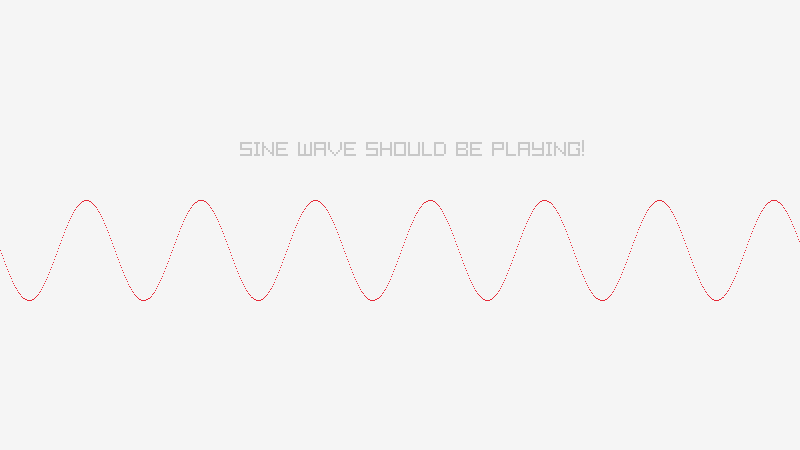
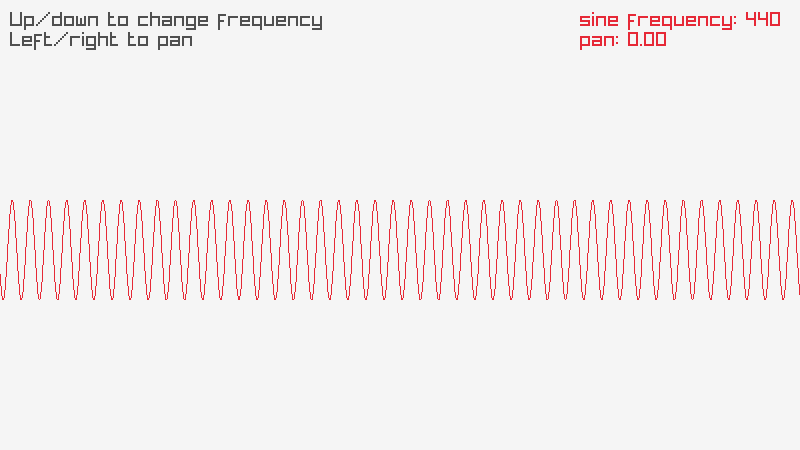
[examples] Update audio_raw_stream.c (#5637)
* Update audio_raw_stream.c

* Update audio_raw_stream.c to more closely follow raylib coding conventions

* Update audio_raw_stream.c to more closely follow raylib coding conventions

I accidentally put the file in the wrong folder.

* Delete examples/audio_raw_stream.c

* Remove spaces before asterisks in comments in audio_raw_stream.c

* Put SetTargetFPS(30) before while (!WindowShouldClose()) in audio_raw_stream.c

diff --git a/examples/audio/audio_raw_stream.c b/examples/audio/audio_raw_stream.c
@@ -16,41 +16,10 @@
 ********************************************************************************************/
 
 #include "raylib.h"
+#include <math.h>
 
-#include <stdlib.h>         // Required for: malloc(), free()
-#include <math.h>           // Required for: sinf()
-#include <string.h>         // Required for: memcpy()
-
-#define MAX_SAMPLES               512
-#define MAX_SAMPLES_PER_UPDATE   4096
-
-// Cycles per second (hz)
-float frequency = 440.0f;
-
-// Audio frequency, for smoothing
-float audioFrequency = 440.0f;
-
-// Previous value, used to test if sine needs to be rewritten, and to smoothly modulate frequency
-float oldFrequency = 1.0f;
-
-// Index for audio rendering
-float sineIdx = 0.0f;
-
-// Audio input processing callback
-void AudioInputCallback(void *buffer, unsigned int frames)
-{
-    audioFrequency = frequency + (audioFrequency - frequency)*0.95f;
-
-    float incr = audioFrequency/44100.0f;
-    short *d = (short *)buffer;
-
-    for (unsigned int i = 0; i < frames; i++)
-    {
-        d[i] = (short)(32000.0f*sinf(2*PI*sineIdx));
-        sineIdx += incr;
-        if (sineIdx > 1.0f) sineIdx -= 1.0f;
-    }
-}
+#define BUFFER_SIZE 4096
+#define SAMPLE_RATE 44100
 
 //------------------------------------------------------------------------------------
 // Program main entry point
@@ -64,43 +33,24 @@ int main(void)
 
     InitWindow(screenWidth, screenHeight, "raylib [audio] example - raw stream");
 
-    InitAudioDevice();              // Initialize audio device
+    InitAudioDevice();
 
-    SetAudioStreamBufferSizeDefault(MAX_SAMPLES_PER_UPDATE);
+    // Set the number of samples the stream will keep in memory at a time to BUFFER_SIZE
+    SetAudioStreamBufferSizeDefault(BUFFER_SIZE);
+    float buffer[BUFFER_SIZE] = {};
 
-    // Init raw audio stream (sample rate: 44100, sample size: 16bit-short, channels: 1-mono)
-    AudioStream stream = LoadAudioStream(44100, 16, 1);
+    // Init raw audio stream (sample rate: 44100, sample size: 32bit-float, channels: 1-mono)
+    AudioStream stream = LoadAudioStream(SAMPLE_RATE, 32, 1);
+    float pan = 0.0f;
+    SetAudioStreamPan(stream, pan);
+    PlayAudioStream(stream);
 
-    SetAudioStreamCallback(stream, AudioInputCallback);
+    int sineFrequency = 440;
+    int newSineFrequency = 440;
+    int sineIndex = 0;
+    double sineStartTime = 0.0;
 
-    // Buffer for the single cycle waveform we are synthesizing
-    short *data = (short *)malloc(sizeof(short)*MAX_SAMPLES);
-
-    // Frame buffer, describing the waveform when repeated over the course of a frame
-    short *writeBuf = (short *)malloc(sizeof(short)*MAX_SAMPLES_PER_UPDATE);
-
-    PlayAudioStream(stream);        // Start processing stream buffer (no data loaded currently)
-
-    // Position read in to determine next frequency
-    Vector2 mousePosition = { -100.0f, -100.0f };
-
-    /*
-    // Cycles per second (hz)
-    float frequency = 440.0f;
-
-    // Previous value, used to test if sine needs to be rewritten, and to smoothly modulate frequency
-    float oldFrequency = 1.0f;
-
-    // Cursor to read and copy the samples of the sine wave buffer
-    int readCursor = 0;
-    */
-
-    // Computed size in samples of the sine wave
-    int waveLength = 1;
-
-    Vector2 position = { 0, 0 };
-
-    SetTargetFPS(30);               // Set our game to run at 30 frames-per-second
+    SetTargetFPS(30);
     //--------------------------------------------------------------------------------------
 
     // Main game loop
@@ -108,92 +58,77 @@ int main(void)
     {
         // Update
         //----------------------------------------------------------------------------------
-        mousePosition = GetMousePosition();
 
-        if (IsMouseButtonDown(MOUSE_BUTTON_LEFT))
+        if (IsKeyDown(KEY_UP))
         {
-            float fp = (float)(mousePosition.y);
-            frequency = 40.0f + (float)(fp);
+            newSineFrequency += 10;
+            if (newSineFrequency > 12500) newSineFrequency = 12500;
+        }
 
-            float pan = (float)(mousePosition.x)/(float)screenWidth;
+        if (IsKeyDown(KEY_DOWN))
+        {
+            newSineFrequency -= 10;
+            if (newSineFrequency < 20) newSineFrequency = 20;
+        }
+
+        if (IsKeyDown(KEY_LEFT))
+        {
+            pan -= 0.01f;
+            if (pan < -1.0f) pan = -1.0f;
             SetAudioStreamPan(stream, pan);
         }
 
-        // Rewrite the sine wave
-        // Compute two cycles to allow the buffer padding, simplifying any modulation, resampling, etc.
-        if (frequency != oldFrequency)
+        if (IsKeyDown(KEY_RIGHT))
         {
-            // Compute wavelength. Limit size in both directions
-            //int oldWavelength = waveLength;
-            waveLength = (int)(22050/frequency);
-            if (waveLength > MAX_SAMPLES/2) waveLength = MAX_SAMPLES/2;
-            if (waveLength < 1) waveLength = 1;
-
-            // Write sine wave
-            for (int i = 0; i < waveLength*2; i++)
-            {
-                data[i] = (short)(sinf(((2*PI*(float)i/waveLength)))*32000);
-            }
-            // Make sure the rest of the line is flat
-            for (int j = waveLength*2; j < MAX_SAMPLES; j++)
-            {
-                data[j] = (short)0;
-            }
-
-            // Scale read cursor's position to minimize transition artifacts
-            //readCursor = (int)(readCursor*((float)waveLength/(float)oldWavelength));
-            oldFrequency = frequency;
+            pan += 0.01f;
+            if (pan > 1.0f) pan = 1.0f;
+            SetAudioStreamPan(stream, pan);
         }
 
-        /*
-        // Refill audio stream if required
         if (IsAudioStreamProcessed(stream))
         {
-            // Synthesize a buffer that is exactly the requested size
-            int writeCursor = 0;
-
-            while (writeCursor < MAX_SAMPLES_PER_UPDATE)
+            for (int i = 0; i < BUFFER_SIZE; i++)
             {
-                // Start by trying to write the whole chunk at once
-                int writeLength = MAX_SAMPLES_PER_UPDATE-writeCursor;
+                int wavelength = SAMPLE_RATE/sineFrequency;
+                buffer[i] = sin(2*PI*sineIndex/wavelength);
+                sineIndex++;
 
-                // Limit to the maximum readable size
-                int readLength = waveLength-readCursor;
-
-                if (writeLength > readLength) writeLength = readLength;
-
-                // Write the slice
-                memcpy(writeBuf + writeCursor, data + readCursor, writeLength*sizeof(short));
-
-                // Update cursors and loop audio
-                readCursor = (readCursor + writeLength)%waveLength;
-
-                writeCursor += writeLength;
+                if (sineIndex >= wavelength)
+                {
+                    sineFrequency = newSineFrequency;
+                    sineIndex = 0;
+                    sineStartTime = GetTime();
+                }
             }
 
-            // Copy finished frame to audio stream
-            UpdateAudioStream(stream, writeBuf, MAX_SAMPLES_PER_UPDATE);
+            UpdateAudioStream(stream, buffer, BUFFER_SIZE);
         }
-        */
+
         //----------------------------------------------------------------------------------
 
         // Draw
         //----------------------------------------------------------------------------------
         BeginDrawing();
+        ClearBackground(RAYWHITE);
 
-            ClearBackground(RAYWHITE);
+        DrawText(TextFormat("sine frequency: %i", sineFrequency), screenWidth - 220, 10, 20, RED);
+        DrawText(TextFormat("pan: %.2f", pan), screenWidth - 220, 30, 20, RED);
+        DrawText("Up/down to change frequency", 10, 10, 20, DARKGRAY);
+        DrawText("Left/right to pan", 10, 30, 20, DARKGRAY);
 
-            DrawText(TextFormat("sine frequency: %i",(int)frequency), GetScreenWidth() - 220, 10, 20, RED);
-            DrawText("click mouse button to change frequency or pan", 10, 10, 20, DARKGRAY);
+        int windowStart = (GetTime() - sineStartTime)*SAMPLE_RATE;
+        int windowSize = 0.1f*SAMPLE_RATE;
+        int wavelength = SAMPLE_RATE/sineFrequency;
 
-            // Draw the current buffer state proportionate to the screen
-            for (int i = 0; i < screenWidth; i++)
-            {
-                position.x = (float)i;
-                position.y = 250 + 50*data[i*MAX_SAMPLES/screenWidth]/32000.0f;
-
-                DrawPixelV(position, RED);
-            }
+        // Draw a sine wave with the same frequency as the one being sent to the audio stream
+        for (int i = 0; i < screenWidth; i++)
+        {
+            int t0 = windowStart + i*windowSize/screenWidth;
+            int t1 = windowStart + (i + 1)*windowSize/screenWidth;
+            Vector2 startPos = { i, 250 + 50*sin(2*PI*t0/wavelength) };
+            Vector2 endPos = { i + 1, 250 + 50*sin(2*PI*t1/wavelength) };
+            DrawLineV(startPos, endPos, RED);
+        }
 
         EndDrawing();
         //----------------------------------------------------------------------------------
@@ -201,9 +136,6 @@ int main(void)
 
     // De-Initialization
     //--------------------------------------------------------------------------------------
-    free(data);                 // Unload sine wave data
-    free(writeBuf);             // Unload write buffer
-
     UnloadAudioStream(stream);   // Close raw audio stream and delete buffers from RAM
     CloseAudioDevice();         // Close audio device (music streaming is automatically stopped)
 
